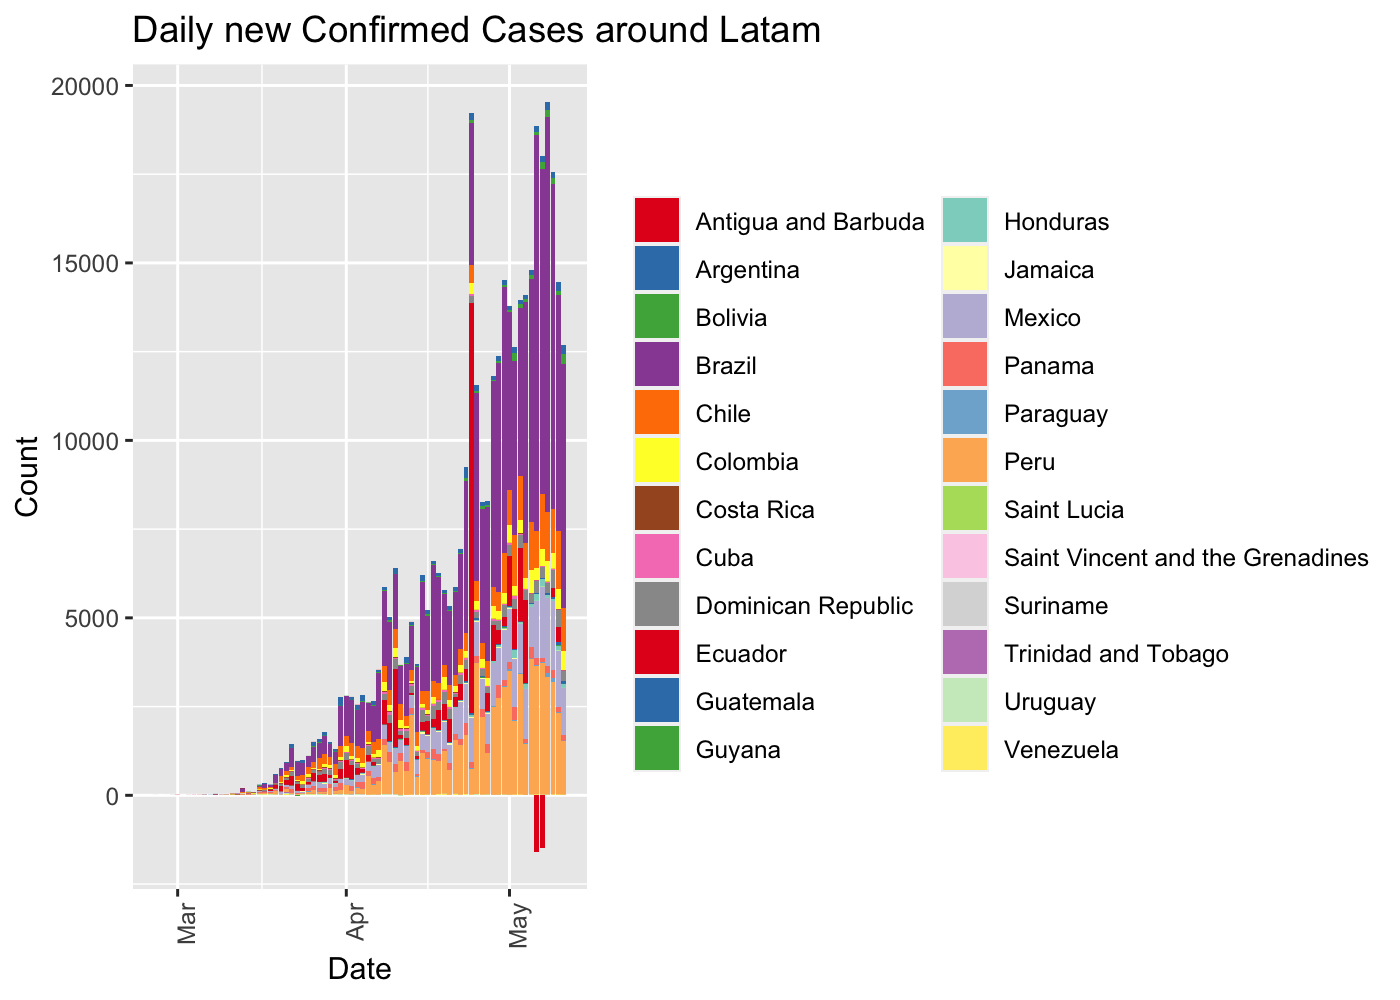
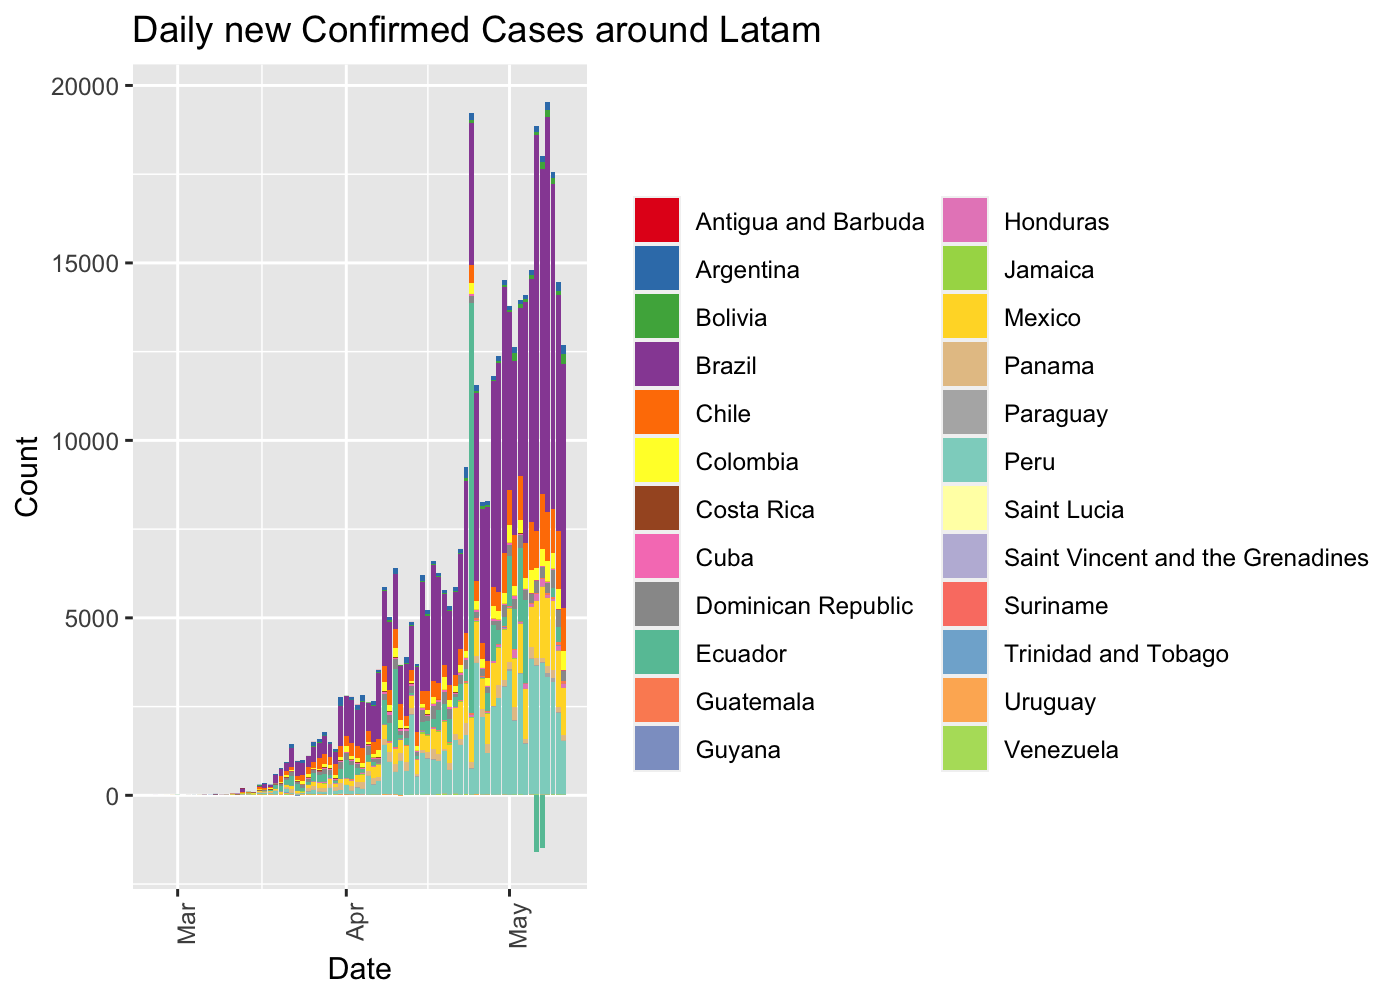
[bugfix] In colors and deploy pkgdown with travis

Changed region(s): [[0.1843, 0.558, 0.4914, 0.837], [0.6757, 0.186, 0.7064, 0.775]]

diff --git a/README.md b/README.md
@@ -90,15 +90,15 @@ library(dplyr)
 ``` r
 data.processor <- COVID19DataProcessor$new(force.download = FALSE)
 dummy <- data.processor$setupData()
-#> INFO  [08:18:29.057]  {stage: data loaded}
+#> INFO  [10:18:29.080]  {stage: data loaded}
 dummy <- data.processor$curate()
 #> Warning in countrycode(x, origin = "country.name", destination = "continent"): Some values were not matched unambiguously: MS Zaandam
-#> INFO  [08:18:31.306]  {stage: consolidated}
-#> INFO  [08:18:32.125]  {stage: Starting first imputation}
-#> INFO  [08:18:32.126] Imputation indicator {indicator: confirmed}
-#> INFO  [08:18:32.167] Imputation indicator {indicator: recovered}
-#> INFO  [08:18:32.259] Imputation indicator {indicator: deaths}
-#> INFO  [08:18:33.505]  {stage: Calculating top countries}
+#> INFO  [10:18:31.333]  {stage: consolidated}
+#> INFO  [10:18:32.271]  {stage: Starting first imputation}
+#> INFO  [10:18:32.273] Imputation indicator {indicator: confirmed}
+#> INFO  [10:18:32.316] Imputation indicator {indicator: recovered}
+#> INFO  [10:18:32.416] Imputation indicator {indicator: deaths}
+#> INFO  [10:18:33.701]  {stage: Calculating top countries}
 current.date <- max(data.processor$data$date)
 
 rg <- ReportGeneratorEnhanced$new(data.processor)
